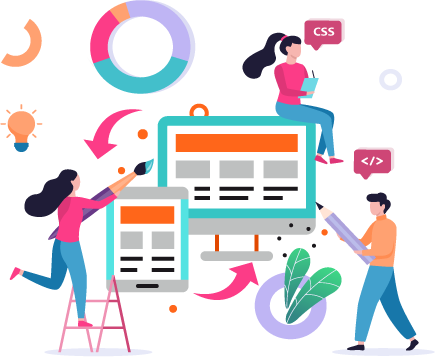
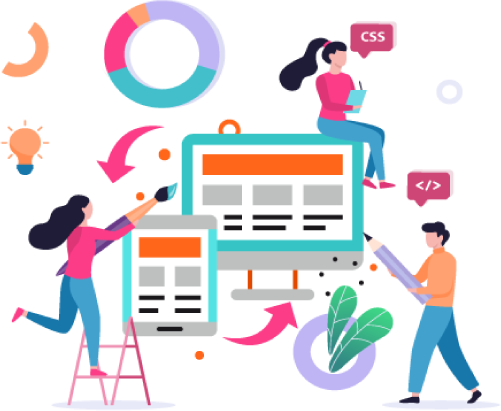
Ajustes Responsivo

diff --git a/index.html b/index.html
@@ -50,7 +50,7 @@
             <img src="img/foto_editada2.jpg" class="about-image" alt="Fotografia principal">
             <div class="about-text">
                 <h3>WHO AM I</h3>
-                <h2><i>I'm </i><span>Eduardo</span>, a Software Engineer and Web Developer</h2>
+                <h2><i>I'm </i><span>Eduardo</span>, a Software Engineer and Web Developer Jr</h2>
                 <p>Como Ingeniero de software, Desarrollador y Analista de Sistemas, me encantaría poder ingresar y formar parte de una empresa en la que pueda aplicar todos mis conocimientos y, al mismo tiempo que me permita desarrollarme profesionalmente.  Gracias a mi formación especializada, considero que puedo aportar valor y seguir desarrollándome en un lugar que coincida con mis valores y expectativas.
                     Como persona flexible y con una gran motivación, soy capaz de adaptarme a cualquier circunstancia y dar siempre lo mejor de mí en cualquier proyecto. Además, aprender es lo mío. ¡Hola, mundo! 👍
                     </p>
@@ -77,8 +77,10 @@
                     <div class="img-s">
                         <img class="img-itm" src="img/RecursoDev.png" alt="">
                     </div>
-                    <h2>Development</h2>
-                    <p>Tecnologias de Desarrollo <br> Hoy en día el mercado laboral exige programadores con conocimientos en un conjunto de tecnologías y métodos de desarrollo modernos y eficientes. </p>
+                    <div class="contItem">
+                        <h2>Development</h2>
+                        <p>Tecnologias de Desarrollo <br> Hoy en día el mercado laboral exige programadores con conocimientos en un conjunto de tecnologías y métodos de desarrollo modernos y eficientes. </p>
+                    </div>
                     <div class="img-tec-cont">
                         <img class="img-tec" src="img/Recurso4.png" alt="">
                         <img class="img-tec" src="img/Recurso5.png" alt="">
@@ -88,13 +90,33 @@
                         <img class="img-tec" src="img/Recurso8.png" alt="">
                         <img class="img-tec" src="img/Recurso9.png" alt="">
                     </div>
+                    <hr class="hr-div">
                 </div>
                 <div class="item">
                     <div class="img-s">
                         <img class="img-itm" src="img/RecursoCretive.png" alt="">
                     </div>
-                    <h2>Creative Design</h2>
-                    <p>Herramienjtas de Diseño <br>Los gráficos web son representaciones visuales utilizadas en un sitio web para mejorar o permitir la representación de una idea o sentimiento, </p>
+                    <div class="contItem">
+                        <h2>Creative Design</h2>
+                        <p>Herramienjtas de Diseño <br>Los gráficos web son representaciones visuales utilizadas en un sitio web para mejorar o permitir la representación de una idea o sentimiento, </p>
+                    </div>
+                    <div class="img-tec-cont">
+                        <img class="img-tec" src="img/Recurso6.png" alt="">
+                        <img class="img-tec" src="img/Recurso7.png" alt="">
+                        <img class="img-tec ps" src="img/Recurso10.png" alt="">
+                        <img class="img-tec" src="img/Recurso11.png" alt="">
+                        <img class="img-tec" src="img/Recurso12.png" alt="">
+                    </div>
+                    <hr class="hr-div">
+                </div>
+                <div class="item">
+                    <div class="img-s">
+                        <img class="img-itm" src="img/RecursoResp.png" alt="">
+                    </div>
+                    <div class="contItem">
+                        <h2>UI / UX design <br> Responsive Design</h2>
+                        <p> Diseño web responsivo <br> Presentar una visión integral de la Experiencia de Usuario (UX) enfocada a la navegación multiplataforma tomando el Responsive Web Design como guía de referencia del diseño web </p>
+                    </div>
                     <div class="img-tec-cont">
                         <img class="img-tec" src="img/Recurso6.png" alt="">
                         <img class="img-tec" src="img/Recurso7.png" alt="">
@@ -103,17 +125,9 @@
                         <img class="img-tec" src="img/Recurso12.png" alt="">
                     </div>
                 </div>
-                <div class="item">
-                    <div class="img-s">
-                        <img class="img-itm" src="img/RecursoResp.png" alt="">
-                    </div>
-                    <h2>UI / UX design <br> Responsive Design</h2>
-                    <p> Diseño web responsivo <br> Presentar una visión integral de la Experiencia de Usuario (UX) enfocada a la navegación multiplataforma tomando el Responsive Web Design como guía de referencia del diseño web </p>
-                </div>
             </div>
         </div>
 
-        <div class="divisor"></div>
 
         <a name="portfolio-l"></a>
         <div class="portfolio">
@@ -127,36 +141,42 @@
                 <div class="item-p">
                     <div class="img-p">
                         <a href="https://eduardosereym.github.io/CRUD-Firebase-CSS-HTML-Javascript/" target="_blank">
-                            <img src="img/firefox_RS2kISNbGW.png" alt="">
+                            <img class="imgport" src="img/firefox_RS2kISNbGW.png" alt="">
                         </a>
                     </div>
-                    <h2>CRUD Javascript Firebase CSS HTML</h2>
-                    <p>Crea modifica y elimina tarjetas <br>
+                    <div class="portdata">
+                        <h2>CRUD Javascript Firebase CSS HTML</h2>
+                        <p>Crea modifica y elimina tarjetas <br>
                         Proyecto realizado en Javascript </p>
+                    </div>
                 </div>
                 <div class="item-p">
                     <div class="img-p">
                         <a href="https://codepen.io/abborgia/pen/PoOLKre" target="_blank">
-                            <img src="img/codepen1.png" alt="">
+                            <img class="imgport"  src="img/codepen1.png" alt="">
                         </a>
                     </div>
-                    <h2>Como entender los CallBacs en Javascript</h2>
-                    <p>Una pequeña ayuda para quienes no entienden muy bien como funciona un CallBack en Javascript.</p>
+                    <div class="portdata">
+                        <h2>Como entender los CallBacs en Javascript</h2>
+                        <p>Una pequeña ayuda para quienes no entienden muy bien como funciona un CallBack en Javascript.</p>
+                    </div>
                 </div>
                 <div class="item-p">
                     <div class="img-p">
                         <a href="#"  target="_blank">
-                            <img src="img/PortFolio1.png" alt="">
+                            <img class="imgport"  src="img/PortFolio1.png" alt="">
                         </a>
                     </div>
-                    <h2>Proyecto en construccion</h2>
-                    <p>Portafolio creado hace muy poco tiempo, se subiran los proyectos a la brevedad, se esta trabajando en ello.</p>
+                    <div class="portdata">
+                        <h2>Proyecto en construccion</h2>
+                        <p>Portafolio creado hace muy poco tiempo, se subiran los proyectos a la brevedad, se esta trabajando en ello.</p>
+                    </div>
                 </div>
             </div>
 
         </div>
 
-        <div class="divisor"></div>
+
 
         <a name="contactme-l"></a>
         <div class="contactme">

diff --git a/css/style.css b/css/style.css
@@ -202,12 +202,7 @@ body{
 
 
 .service, .resume, .portfolio{
-    /* margin: 30px 100px; */
     padding-top: 50px;
-    /* display: flex; */
-    /* flex-direction: column; */
-    /* align-items: center; */
-    /* justify-content: center; */
 }
 .content-title{
     color: #FFD234;
@@ -222,7 +217,6 @@ body{
 .item .img-tec{
     width: 40px;
     margin: 10px;
-    /* margin: 15px 40px 0 0; */
 }
 .img-tec-cont{
     padding-top: 30px;
@@ -272,34 +266,57 @@ body{
     padding: 60px 50px;
     
 }
+
 .item{
-    display: flex;
-    flex-direction: column;
-    padding: 5px;
+    display: grid;  
+    grid-template-rows: 60% 20% 20%;
+    grid-template-areas:
+        "img"
+        "content"
+        "icons"
+    ;
+
+    row-gap: 20px;
+    justify-items: center;
+    align-items: center;
 }
 .img-s{
-    height: 50%;
+    grid-area: img;
+    aspect-ratio: 1/1;
     display: flex;
     justify-content: center;
+    align-items: center;
+
 }
-.item img{
-    align-self: center;
+.contItem{
+    grid-area: content;
+    align-self: flex-start;
 }
+.img-tec-cont{
+    grid-area: icons;
+    margin-top: 25px;
+    align-self: flex-start;
+}
+
+.fin{
+    border:1px outset;
+    background-color:#FFFF66;
+    color:#FFFF66;
+    height:3px;width:60%
+}
+
 .img-itm{
-    width: 60%;
-    height: 200px;
+    width: 70%;
     margin-bottom: 30px;
+    aspect-ratio: 1/1;
 }
 .item h2{
-    height: 74px;
     text-align: center;
-    padding: 10px 0;
     color: #FFD234;
 }
 .item p{
     text-align: center;
-    padding: 10¿¿5px 10px 0 0;
-    padding-right: 10px;
+    padding-top: 15px;
     color: #fff;
     text-align:center;
 }
@@ -315,32 +332,29 @@ body{
     padding: 0 50px ;
 }
 .items-portfolio{
-    /* height: 410px; */
     display: grid;
     grid-template-columns: repeat(3,30%);
-    /* grid-template-rows: 600px; */
     gap: 40px;
+    justify-self: center;
+    justify-content: center;
+
     padding: 60px 0;
 }
-.item-p{
-    display: flex;
-    height: 500px;
-    flex-direction: column;
-    padding: 5px;
-}
+
 .img-p{
-    height: 50%;
-    border: 1px solid black;
-    border-radius: 9px;
-    box-shadow: 0px 10px 13px -7px #000000, 7px 13px 28px 7px rgba(0,0,0,0.5);
+    grid-area: img ;
+    width: 100%;
 }
 
 .item-p a img{
-    align-self: center;
     width: 100%;
-    height: 100%;
-    border-radius: 9px;
+    aspect-ratio: 2/1;
 }
+
+.portdata{
+    grid-area: data;
+}
+
 .item-p h2{
     padding: 19px 0;
     color: #FFD234;
@@ -361,13 +375,11 @@ display: flex;
 padding: 50px 40px;
 flex-direction: column;
 justify-content: space-evenly;
-/* align-items: center; */
 }
 .fa-user-check{
     color: #5cc52c;
 }
 .location, .social{
-    /* width: 300px; */
     display: flex;
     flex-direction: column;
     justify-content: flex-start;
@@ -406,8 +418,8 @@ justify-content: space-evenly;
     width: 30px;
 }
 .address{
-font-size: 25px;
-color: #5cc52c;
+    font-size: 25px;
+    color: #5cc52c;
 }
 .add-bx{
     display: flex;
@@ -462,7 +474,6 @@ color: #5cc52c;
 
 @media screen and (max-width:1100px) {
     .home, .about{
-        /* margin: 140px 100px; */
         margin: 0;
         display: flex;
         flex-direction: column-reverse;
@@ -498,6 +509,15 @@ color: #5cc52c;
         gap: 40px;
         padding: 55px 50px;
     }
+
+    .hr-div { 
+        width: 70%;
+        height: 1px;
+        border: none;
+        background-image: linear-gradient(to right, rgba(0, 0, 0, 0), rgb(255, 251, 0), rgba(0, 0, 0, 0)); 
+    }
+
+
     .content p{
         width: 90%;
     }
@@ -527,9 +547,9 @@ color: #5cc52c;
         right:9px;
         bottom: 9px;
     }
-    .item, .item-p{
-        padding-bottom: 10px;
-        border-bottom: 1px solid #FFD234;
+    .item{
+        border: 0;
+        margin: 0;
     }
     .contactme{
         margin: 0;
@@ -594,12 +614,7 @@ color: #5cc52c;
     .home img, .about img{
         min-width: 180px;
     }
-    .item{
-        width: 100%;
-        display: flex;
-        align-items: center;
-        border: none;
-    }
+
     .item p{
         align-items: center;
         width: 90%;
@@ -608,8 +623,12 @@ color: #5cc52c;
     .items-service{
         display: grid;
         grid-template-columns: 1fr;
-        gap: 40px;
-        padding: 45px 50px;
+    }
+    .hr-div { 
+        width: 70%;
+        height: 1px;
+        border: none;
+        background-image: linear-gradient(to right, rgba(0, 0, 0, 0), rgb(255, 251, 0), rgba(0, 0, 0, 0)); 
     }
     .item-p p {
         padding-right: 0;
@@ -646,7 +665,6 @@ color: #5cc52c;
     }
     .map iframe{
         width: 100%;
-        /* height: 250px; */
     }
 
     .add-bx img {
